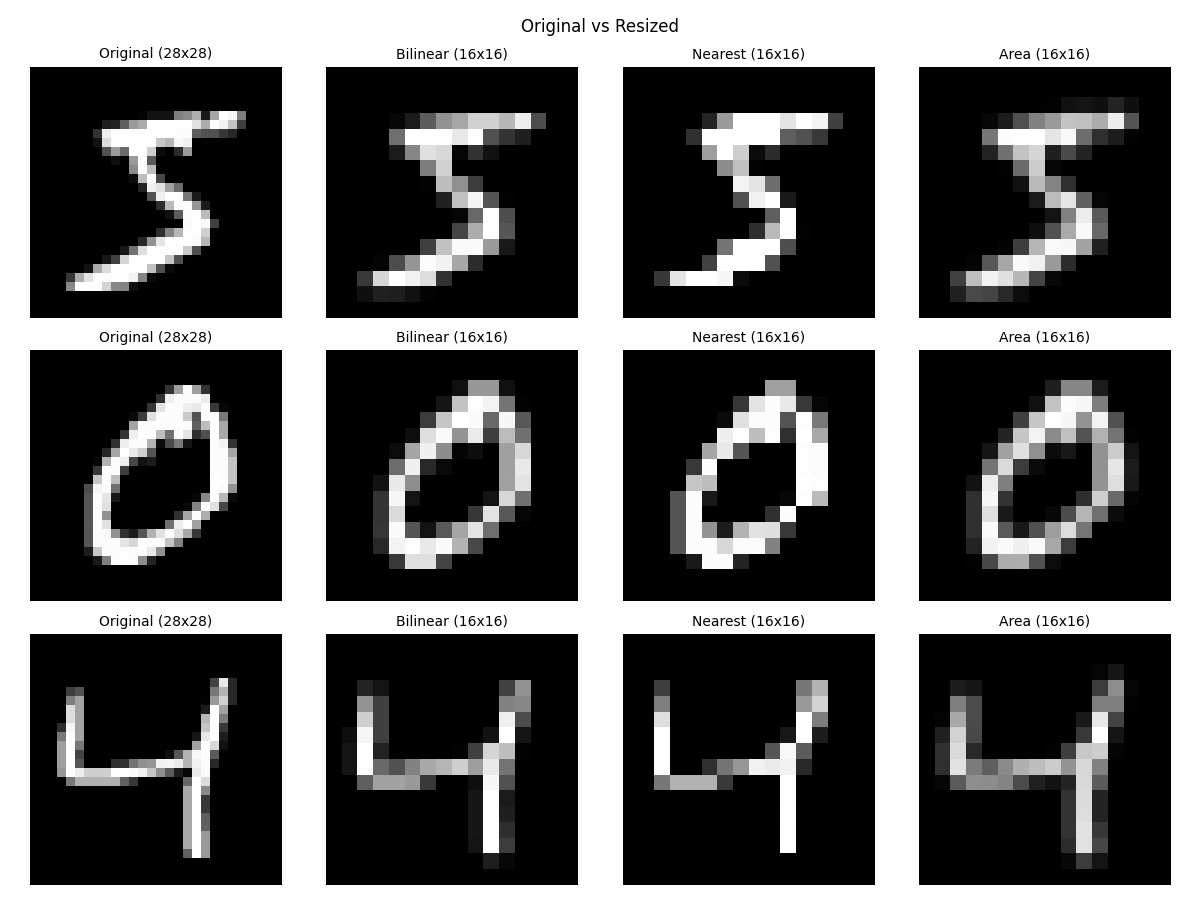
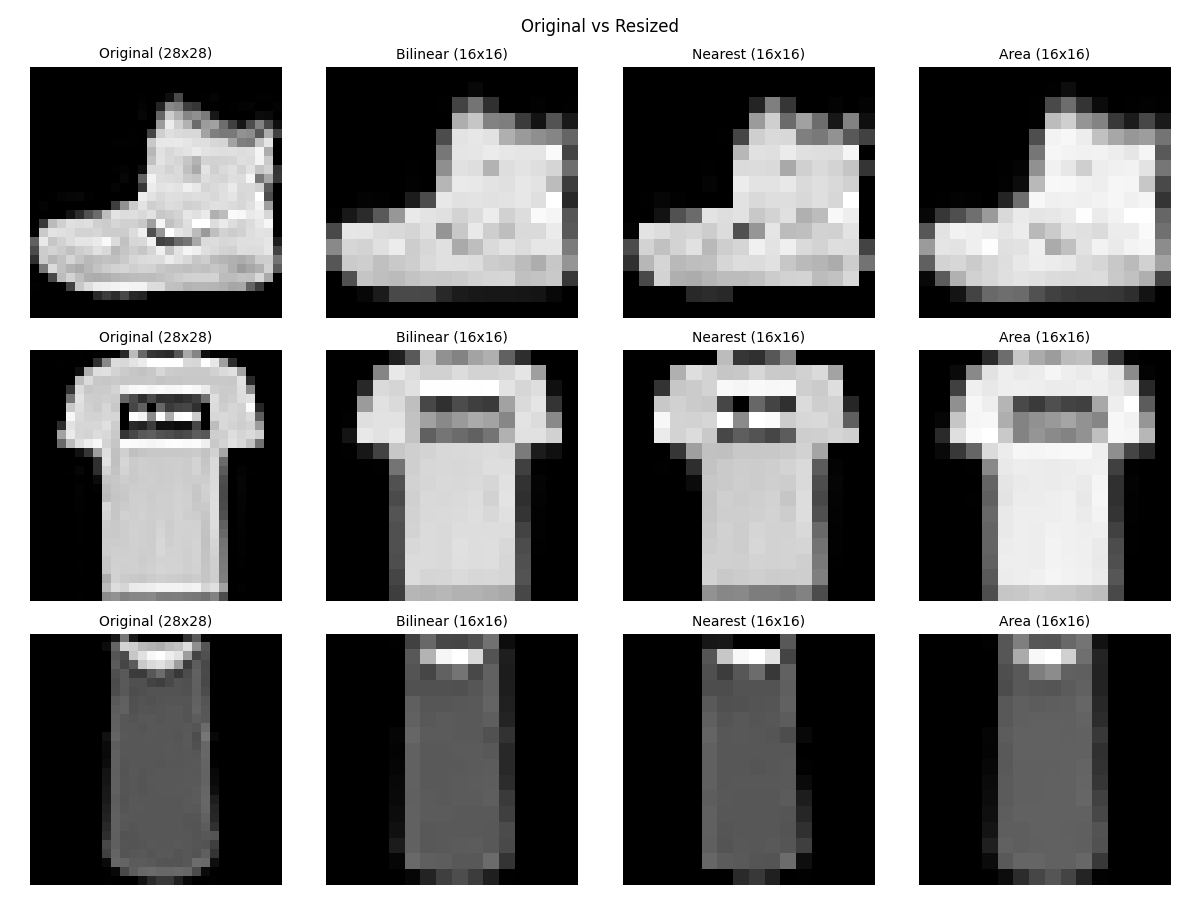
Add examples

diff --git a/src/benchmark.py b/src/benchmark.py
@@ -4,39 +4,55 @@ import testing
 import circuit
 import time
 import utils
+import numpy as np  # Necesario para cálculos estadísticos
 
-def benchmark(class_pairs, unitary_arr, embedding,resize,dataset):
+def benchmark(class_pairs, unitary_arr, embedding, resize, dataset,iterations):
     results_file = "results.txt"
+    num_iterations = iterations  # Número de iteraciones para cada configuración
 
-    # Abrir el archivo en modo de adición
     with open(results_file, "a") as f:
         f.write("#################################\n")
-        f.write(f"{time.ctime()}\n")
+        f.write(f"{time.ctime()}\n\n")
         for unitary in unitary_arr:
             for class1, class2 in class_pairs:
                 for resizing_method in resize:
                     
                     print(f"Parameters: {utils.get_label(class1,dataset)} {utils.get_label(class2,dataset)}, unitary {unitary}, embedding {embedding}, resize {resizing_method} ")
-                    x_train, x_test, y_train, y_test = data.data_load_and_process(class1, class2, resizing_method, dataset)
-                
-                    start_time = time.time()
-                    trained_params = training.circuit_training(x_train, y_train, unitary, embedding)
-                    end_time = time.time()
-                    elapsed_time = end_time - start_time
-
-                    print("Testing...")
-                    predictions = [circuit.QCNN(x, trained_params, unitary, embedding) for x in x_test]
-                    test_accuracy = testing.accuracy_test(predictions, y_test)
                     
+                    training_times = []
+                    test_accuracies = []
+                    
+                    for iteration in range(num_iterations):
+                        x_train, x_test, y_train, y_test = data.data_load_and_process(class1, class2, resizing_method, dataset)
+                    
+                        start_time = time.time()
+                        trained_params = training.circuit_training(x_train, y_train, unitary, embedding)
+                        end_time = time.time()
+                        elapsed_time = end_time - start_time
+                        training_times.append(elapsed_time)
+
+                        print("Testing...")
+                        predictions = [circuit.QCNN(x, trained_params, unitary, embedding) for x in x_test]
+                        test_accuracy = testing.accuracy_test(predictions, y_test)
+                        test_accuracies.append(test_accuracy)
+                        
+                        print(f"Iteration {iteration + 1}: Time Training: {elapsed_time:.2f} seconds, Test accuracy: {test_accuracy * 100:.2f}%")
+                    
+                    avg_time = np.mean(training_times)
+                    std_time = np.std(training_times)
+                    avg_accuracy = np.mean(test_accuracies)
+                    std_accuracy = np.std(test_accuracies)
+    
                     f.write(f"Parameters:\n{utils.get_label(class1,dataset)} {utils.get_label(class2,dataset)}\n")
                     f.write(f"Unitary: {unitary}\n")
                     f.write(f"Number_parameters: {utils.param_num(unitary)}\n")
                     f.write(f"Embedding: {embedding}\n")
                     f.write(f"Resize: {resizing_method}\n")
-                    f.write(f"Training Time: {elapsed_time:.2f} seconds\n")
-                    f.write(f"Test accuracy: {test_accuracy * 100:.2f}%\n\n")
+                    f.write(f"Training Time: {avg_time:.2f} ± {std_time:.2f} seconds (mean ± std)\n")
+                    f.write(f"Test accuracy: {avg_accuracy * 100:.2f}% ± {std_accuracy * 100:.2f}% (mean ± std)\n\n")
                     
-                    print(f"Time Training: {elapsed_time:.2f} seconds")
-                    print(f"Test accuracy: {test_accuracy * 100:.2f}%\n")
+                    print(f"\nSummary for this configuration:")
+                    print(f"Average Training Time: {avg_time:.2f} ± {std_time:.2f} seconds")
+                    print(f"Average Test Accuracy: {avg_accuracy * 100:.2f}% ± {std_accuracy * 100:.2f}%\n")
 
     print("Results saved to", results_file)

diff --git a/examples/dataset_example.py b/examples/dataset_example.py
@@ -1,0 +1,43 @@
+import tensorflow as tf
+import matplotlib.pyplot as plt
+import numpy as np
+
+def plot_examples(dataset_name, images, labels, class_names, num_examples=10):
+    """
+    Función para graficar ejemplos de un conjunto de datos.
+    
+    Args:
+        dataset_name (str): Nombre del conjunto de datos (e.g., "Fashion MNIST", "MNIST").
+        images (numpy.ndarray): Imágenes del conjunto de datos.
+        labels (numpy.ndarray): Etiquetas correspondientes a las imágenes.
+        class_names (list): Lista de nombres de las clases.
+        num_examples (int): Número de ejemplos a graficar.
+    """
+    plt.figure(figsize=(10, 5))
+    indices = np.random.choice(len(images), num_examples, replace=False)  # Seleccionar imágenes aleatorias
+    for i, idx in enumerate(indices):
+        plt.subplot(2, 5, i + 1)  # Crear una cuadrícula de 2 filas y 5 columnas
+        plt.imshow(images[idx], cmap="gray")
+        plt.title(f"{class_names[labels[idx]]}", fontsize=10)
+        plt.axis("off")
+    plt.tight_layout()
+    plt.show()
+
+# Cargar Fashion MNIST
+fashion_mnist = tf.keras.datasets.fashion_mnist
+(x_train_fashion, y_train_fashion), (_, _) = fashion_mnist.load_data()
+fashion_class_names = [
+    "T-shirt/top", "Trouser", "Pullover", "Dress", "Coat",
+    "Sandal", "Shirt", "Sneaker", "Bag", "Ankle boot"
+]
+
+# Cargar MNIST
+mnist = tf.keras.datasets.mnist
+(x_train_mnist, y_train_mnist), (_, _) = mnist.load_data()
+mnist_class_names = [str(i) for i in range(10)]  # Clases del 0 al 9
+
+# Graficar ejemplos de Fashion MNIST
+plot_examples("Fashion MNIST", x_train_fashion, y_train_fashion, fashion_class_names, num_examples=10)
+
+# Graficar ejemplos de MNIST
+plot_examples("MNIST", x_train_mnist, y_train_mnist, mnist_class_names, num_examples=10)

diff --git a/src/main.py b/src/main.py
@@ -2,9 +2,9 @@ import benchmark
 
 # Configuración del benchmark
 dataset = "mnist"  # 'fashion_mnist' o "mnist"
-class_pairs = [(0,1),(3,4),(4,8)]  # [(0, 1),(2,3)...]
-unitary_circuit = ["CONV","TTN"]  # "TTN" o "CONV"
-resize = ["bilinear"]  # "area", "bilinear" o "nearest"
+class_pairs = [(3,8)]  # [(0, 1),(2,3)...]
+unitary_circuit = ["CONV"]  # "TTN" o "CONV"
+resize = ["bilinear","nearest"  ]  # "area", "bilinear" o "nearest"
 embedding = "Amplitude"  # "Amplitude"
 
-benchmark.benchmark(class_pairs, unitary_circuit, embedding, resize, dataset)
+benchmark.benchmark(class_pairs, unitary_circuit, embedding, resize, dataset,iterations=5)

diff --git a/examples/resize_example.py b/examples/resize_example.py
@@ -33,7 +33,7 @@ def plot_comparison(original, bilinear, nearest, area, title="Comparison of Imag
     plt.savefig("Original_vs_Resized.png")
     plt.show()
 
-(x_train, y_train), (x_test, y_test) = tf.keras.datasets.mnist.load_data()
+(x_train, y_train), (x_test, y_test) = tf.keras.datasets.fashion_mnist.load_data()
 
 x_train_sample = np.array([x_train[i] for i in range(3)])
 

diff --git a/src/data.py b/src/data.py
@@ -51,7 +51,6 @@ def data_load_and_process(class1,class2,resize,dataset="mnist"):
     elif resize=="nearest":
         x_train = tf.image.resize(x_train[:], (256, 1), method="nearest").numpy().squeeze()
         x_test = tf.image.resize(x_test[:], (256, 1), method="nearest").numpy().squeeze()
-
     
     print("Data is ready")
 

diff --git a/src/embedding.py b/src/embedding.py
@@ -7,3 +7,4 @@ def data_embedding(X,embedding):
         AmplitudeEmbedding(X,wires=range(8),normalize=True)
         #print("Amplitude Embedding done")
 
+
